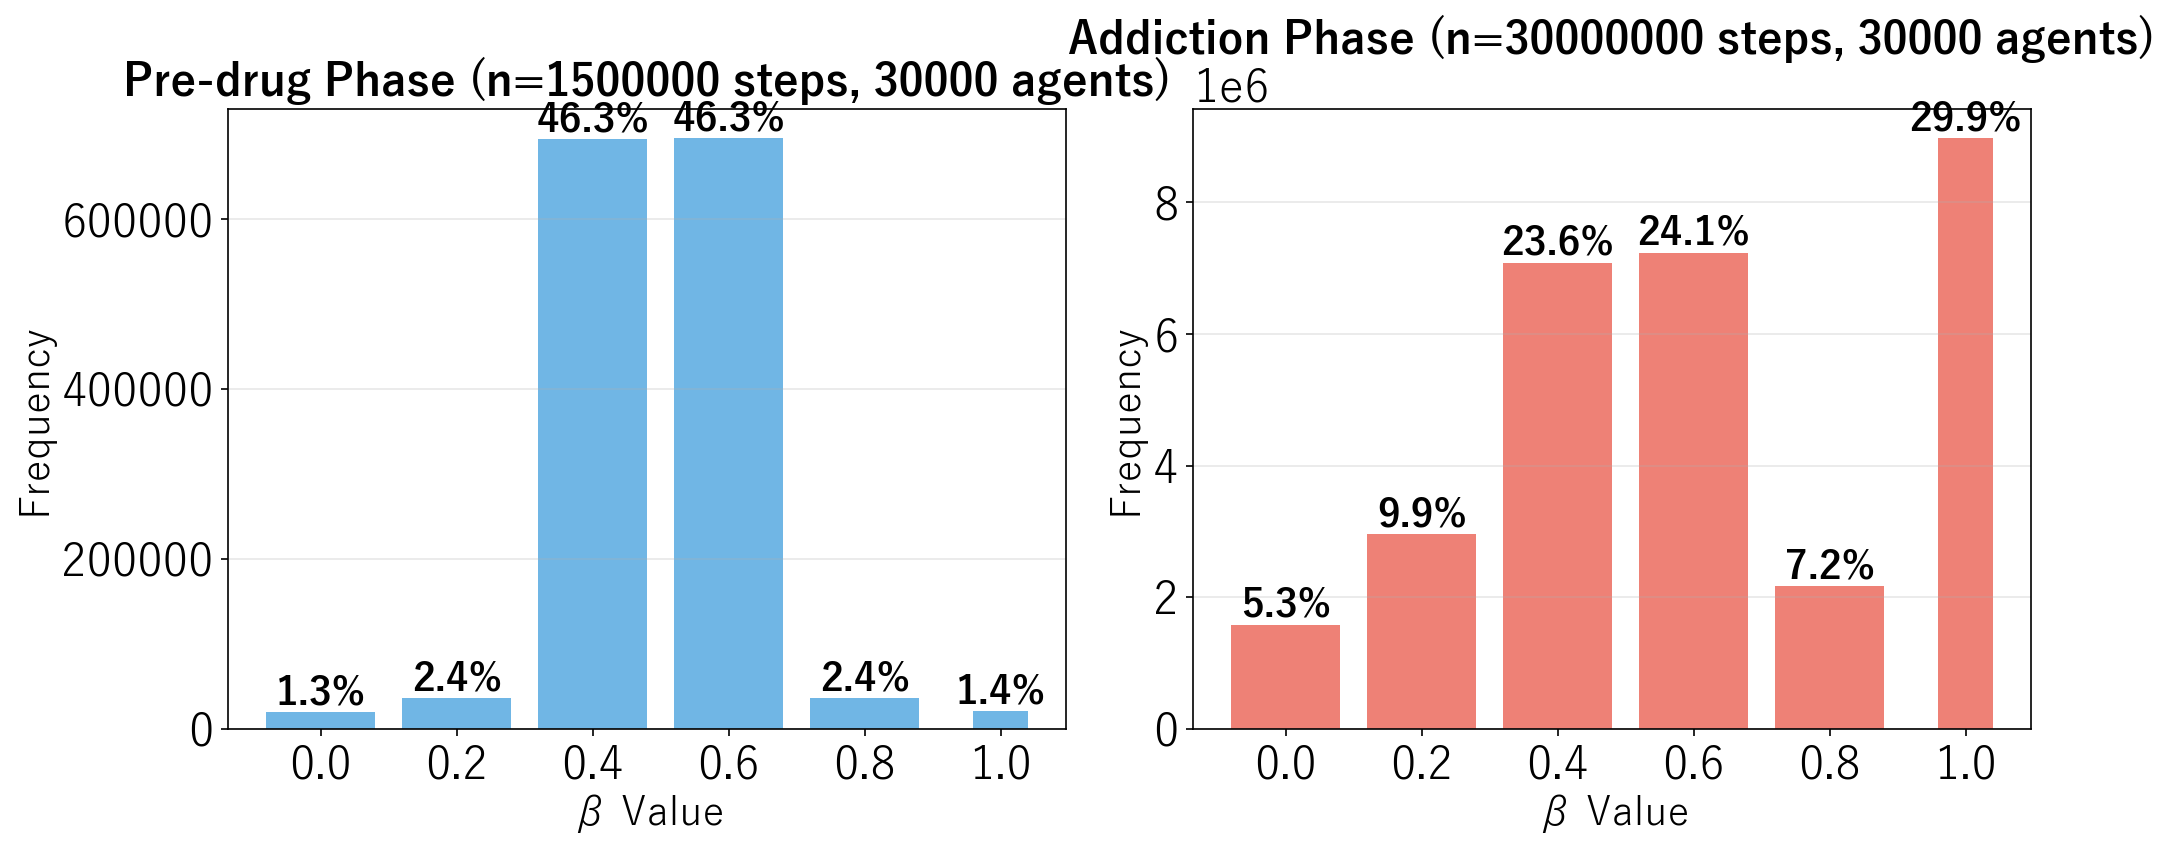
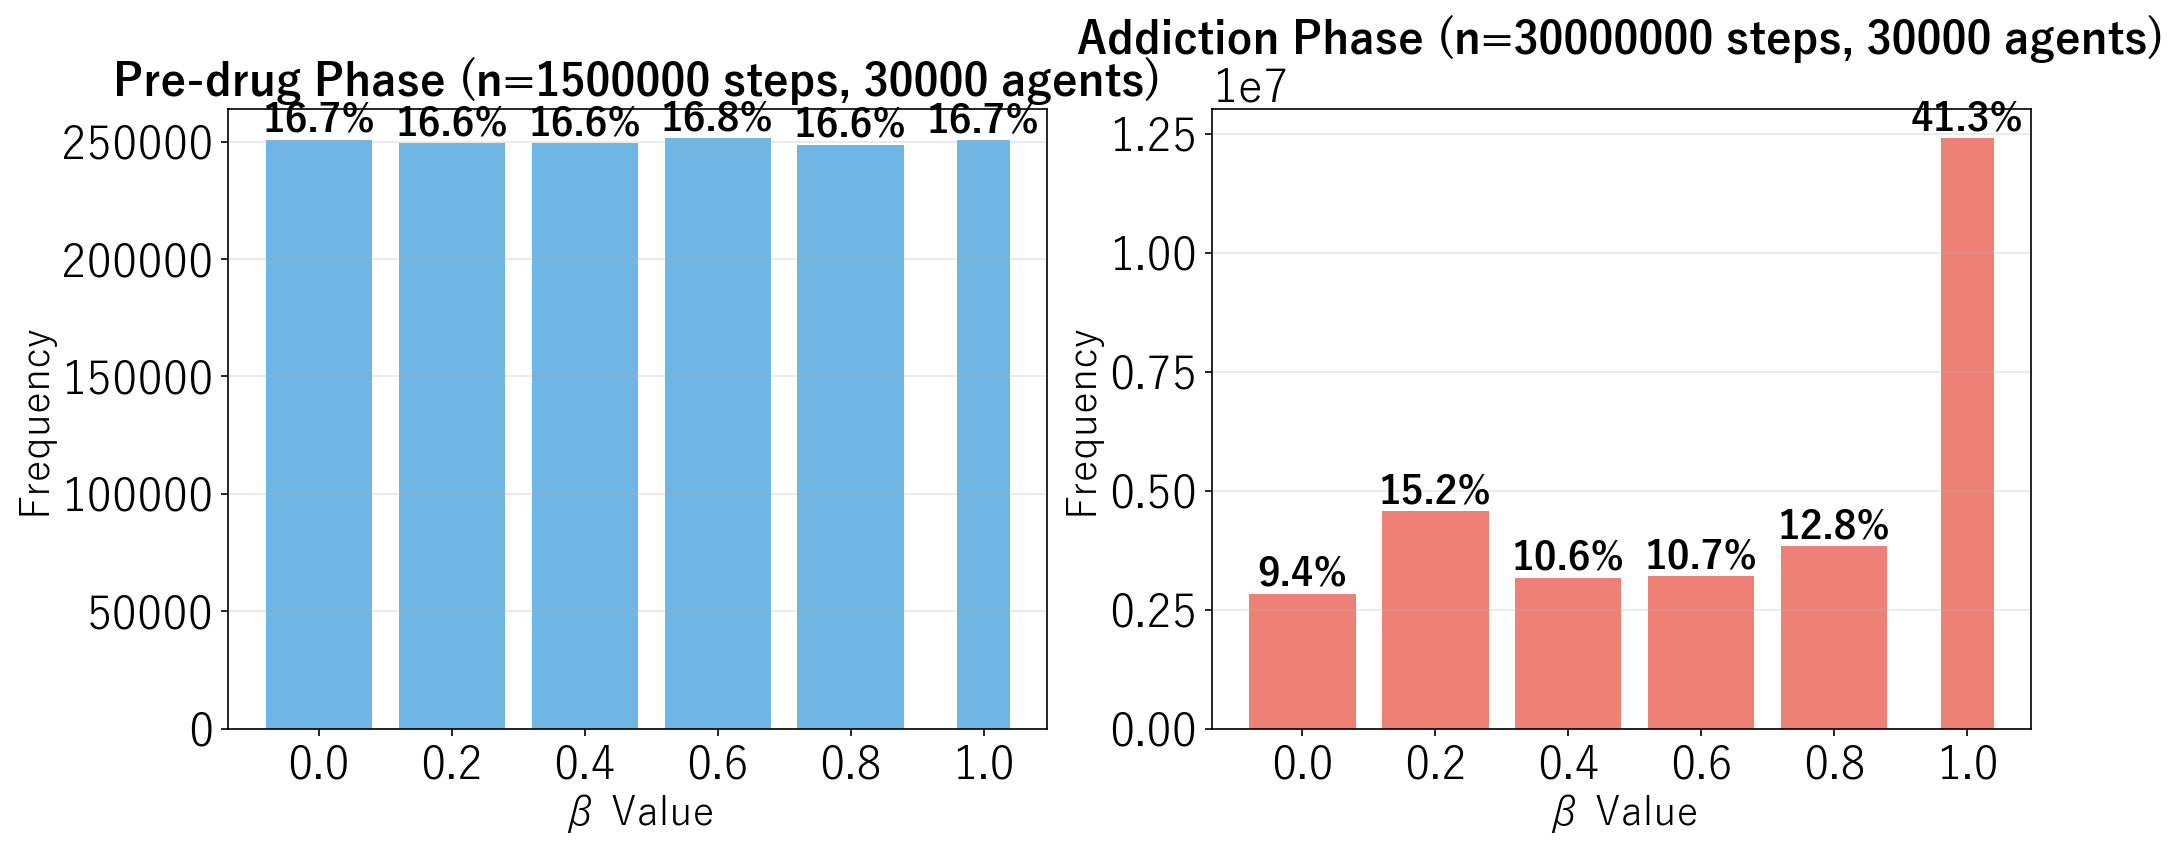
q_betaの初期値を変更し、プロットのy軸範囲を調整

diff --git a/addiction_rl_sim.py b/addiction_rl_sim.py
@@ -456,7 +456,8 @@ class HybridAgent:
                 self.td_error_threshold = max(0.25, self.td_error_threshold * 0.4)
                 self.td_bias_scale = 1.5
                 self.epsilon_beta_local = max(0.02, EPSILON_BETA * 0.3)
-                self.q_beta = np.array([0.0, 0.08, 0.12, 0.12, 0.08, 0.0], dtype=np.float64)
+                # self.q_beta = np.array([0.0, 0.08, 0.12, 0.12, 0.08, 0.0], dtype=np.float64)
+                self.q_beta = np.array([0.0, 0.0, 0.0, 0.0, 0.0, 0.0], dtype=np.float64)
         
         # メンタルモデル (Numba用にfloat64で定義)
         # [今の状態, 行動, 次の状態] に何回遷移したかを記録する3次元配列
@@ -1528,7 +1529,7 @@ def plot_beta_analysis(beta_stats: BetaStatistics, output_prefix: str = "beta_an
                          linewidth=1.5, alpha=0.5)
         
         ax7_1.set_ylabel('Usage Rate (%)', fontsize=22)
-            
+        ax7_1.set_ylim(0, 83)
         ax7_1.set_title(f'Windowed β Usage: Addicted (n={n_addicted_agents} agents)', 
                    fontsize=21, fontweight='bold')
         ax7_1.legend(loc='best', fontsize=19, ncol=3)
@@ -1549,7 +1550,7 @@ def plot_beta_analysis(beta_stats: BetaStatistics, output_prefix: str = "beta_an
         
         ax7_2.set_xlabel('Step (window center)', fontsize=22)
         ax7_2.set_ylabel('Usage Rate (%)', fontsize=22)
-        ax7_2.set_ylim(0, 80)
+        ax7_2.set_ylim(0, 83)
         
         ax7_2.set_title(f'Windowed β Usage: Non-addicted (n={n_non_addicted_agents} agents)', 
                    fontsize=21, fontweight='bold')
